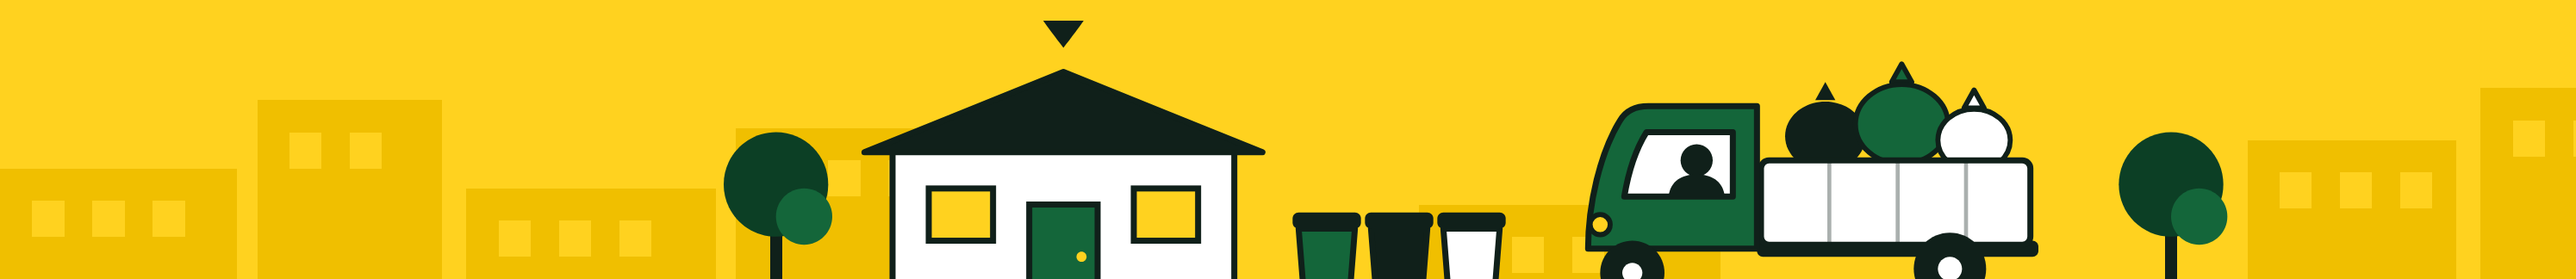
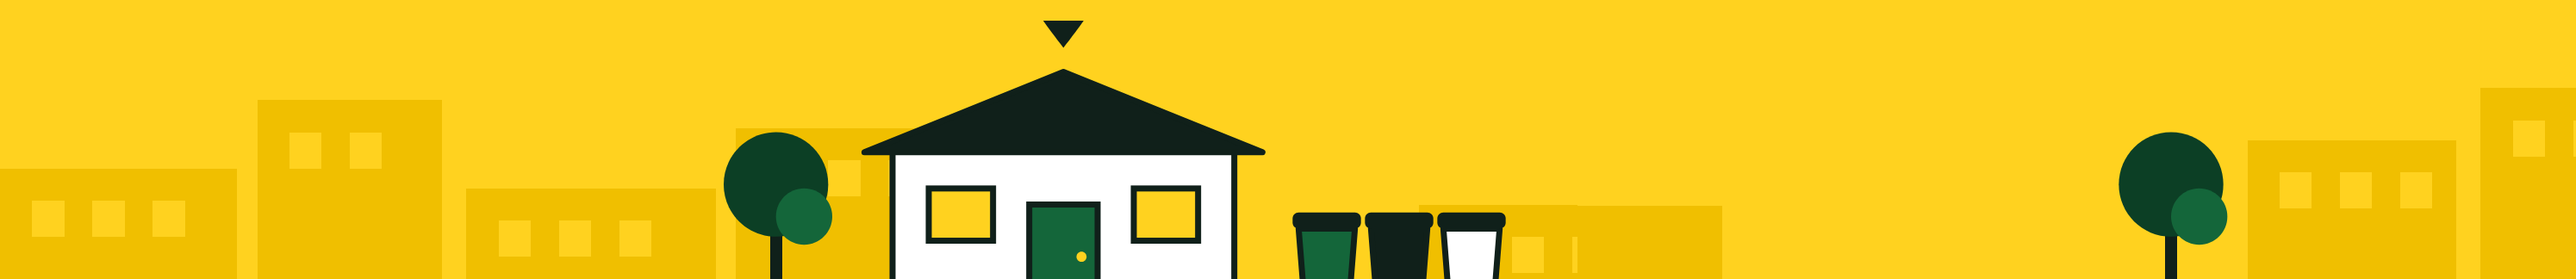
Animate the collection trucks driving through the street scenes
Claude-Session: https://claude.ai/code/session_01EetL6rUjavyo9LQGXXXcKs

Changed region(s): [[0.591, 0.2469, 0.8087, 1.0]]

diff --git a/index.html b/index.html
@@ -10,7 +10,7 @@
 <div id="stage">
 
 <section class="slide yellow cover pad" data-bg="#FFD21F">
-<img class="street" src="assets/street.png" alt="Illustrated street with a house, waste bins and a TRASHAWAY collection truck">
+<img class="street" src="assets/street.png" alt="Illustrated street with a house, waste bins and a TRASHAWAY collection truck"><div class="truck t1" aria-hidden="true"><img src="assets/truck.png" alt=""></div>
 <div class="l"><p class="eyebrow rv">NITDA INNOVATION CHALLENGE 2.0</p><h1 class="rv" style="--i:1">TRASHAWAY</h1>
 <p class="lead rv" style="--i:2">Book a waste pickup. Track it until it’s collected. In your own language.</p>
 <p class="meta rv" style="--i:3">Team DreamRise</p></div>
@@ -87,7 +87,7 @@
 <div class="row c3" style="margin-top:10px"><div class="card rv" style="--i:0"><svg class="ic" viewBox="0 0 24 24" fill="none" stroke="currentColor" stroke-width="2" stroke-linecap="round" stroke-linejoin="round" aria-hidden="true"><path d="M13 2L4 14h7l-1 8 10-12h-7z"/></svg><h3>Smart bins</h3><p>Fill-level sensors on shared bins book a pickup at about 80% full. Later, two compartments split recycling from waste.</p></div><div class="card rv" style="--i:1"><svg class="ic" viewBox="0 0 24 24" fill="none" stroke="currentColor" stroke-width="2" stroke-linecap="round" stroke-linejoin="round" aria-hidden="true"><circle cx="12" cy="12" r="9"/><path d="M3 12h18M12 3a14 14 0 0 1 0 18M12 3a14 14 0 0 0 0 18"/></svg><h3>Recycler marketplace</h3><p>Recyclers pay residents per kg in cash, airtime or points. Councils see tonnes kept out of landfill.</p></div><div class="card rv" style="--i:2"><svg class="ic" viewBox="0 0 24 24" fill="none" stroke="currentColor" stroke-width="2" stroke-linecap="round" stroke-linejoin="round" aria-hidden="true"><path d="M4 20V10M10 20V4M16 20v-8M22 20H2"/></svg><h3>Smarter routes</h3><p>Collectors get a route plan built from booked pickups and full bins, so trucks drive less.</p></div><div class="card rv" style="--i:3"><svg class="ic" viewBox="0 0 24 24" fill="none" stroke="currentColor" stroke-width="2" stroke-linecap="round" stroke-linejoin="round" aria-hidden="true"><rect x="9" y="2" width="6" height="12" rx="3"/><path d="M5 11a7 7 0 0 0 14 0M12 18v4"/></svg><h3>Voice-first Sorty</h3><p>Book and track a pickup by talking to Sorty in any of the five languages, hands free.</p></div><div class="card rv" style="--i:4"><svg class="ic" viewBox="0 0 24 24" fill="none" stroke="currentColor" stroke-width="2" stroke-linecap="round" stroke-linejoin="round" aria-hidden="true"><rect x="3" y="6" width="18" height="14" rx="2"/><path d="M3 10h18M16 15h2"/></svg><h3>In-app payments</h3><p>Pay the collector by card or transfer in the app, with receipts, and faster cash-outs for points.</p></div><div class="card rv" style="--i:5"><svg class="ic" viewBox="0 0 24 24" fill="none" stroke="currentColor" stroke-width="2" stroke-linecap="round" stroke-linejoin="round" aria-hidden="true"><path d="M12 22s7-6.2 7-12a7 7 0 0 0-14 0c0 5.8 7 12 7 12z"/><circle cx="12" cy="10" r="2.5"/></svg><h3>Dumping forecasts</h3><p>Councils see where dumping is likely next and send clean-up crews there first.</p></div></div></section>
 
 <section class="slide dark ask pad" data-bg="#10201A">
-<div class="band"></div><img class="street" src="assets/street.png" alt="Illustrated street with a house, waste bins and a TRASHAWAY collection truck">
+<div class="band"></div><img class="street" src="assets/street.png" alt="Illustrated street with a house, waste bins and a TRASHAWAY collection truck"><div class="truck t2" aria-hidden="true"><img src="assets/truck.png" alt=""></div>
 <div class="head"><p class="eyebrow">THE TEAM AND OUR ASK</p></div>
 <div class="askrow"><div class="l"><h2>Help us take TRASHAWAY from one ward to every city</h2>
 <div class="ar rv" style="--i:1"><i>1</i>Implementation support to run the pilot</div>

diff --git a/styles.css b/styles.css
@@ -20,10 +20,10 @@ h3{font-size:44px;line-height:1.1}
 .src{position:absolute;left:128px;bottom:56px;font-size:24px;color:var(--soft)}
 .cover{flex-direction:row;align-items:center;gap:64px}
 .cover .l{flex:1;min-width:0;display:flex;flex-direction:column;gap:30px}
-.cover h1{font-size:200px;letter-spacing:-5px;line-height:.9}
+.cover h1{font-size:176px;letter-spacing:-5px;line-height:.9}
 .cover .lead{font-size:46px;line-height:1.25;color:var(--soft);max-width:1000px}
 .cover .meta{font-size:32px;font-weight:700}
-.cover .phone{width:560px;height:auto;flex:none;margin-bottom:40px}
+.cover .phone{width:500px;height:auto;flex:none;margin-bottom:40px}
 .street{position:absolute;left:0;bottom:0;width:1920px;height:208px;object-fit:cover}
 .pad{padding-bottom:250px}
 .stats{display:flex;gap:80px;align-items:center;flex:1}
@@ -136,3 +136,18 @@ body{transition:background .7s cubic-bezier(.22,.61,.36,1)}
 .s6{gap:28px}.s6 .card{padding:28px 32px}
 .fut{gap:30px}.fut .row{gap:24px!important}
 .fut .card{padding:24px 30px;gap:8px}.fut .card h3{font-size:40px}.fut .card p{font-size:26px}.fut .card .ic{width:56px;height:56px}
+
+/* moving trucks */
+.truck{position:absolute;left:0;bottom:0;width:351px;height:162px;transform:translateX(1250px);pointer-events:none}
+.truck img{width:100%;height:auto;display:block}
+.truck.t2{transform:translateX(300px)}
+.truck.t2 img{transform:scaleX(-1)}
+.slide.active .t1{animation:driveL 20s linear infinite;animation-delay:-5s}
+.slide.active .t2{animation:driveR 22s linear infinite;animation-delay:-8s}
+.slide.active .t1 img{animation:bump .45s ease-in-out infinite alternate}
+.slide.active .t2 img{animation:bumpf .55s ease-in-out infinite alternate}
+@keyframes driveL{from{transform:translateX(1980px)}to{transform:translateX(-400px)}}
+@keyframes driveR{from{transform:translateX(-300px)}to{transform:translateX(2000px)}}
+@keyframes bump{from{transform:translateY(0)}to{transform:translateY(-3px)}}
+@keyframes bumpf{from{transform:scaleX(-1) translateY(0)}to{transform:scaleX(-1) translateY(-2px)}}
+@media(prefers-reduced-motion:reduce){.slide.active .truck,.slide.active .truck img{animation:none}}
